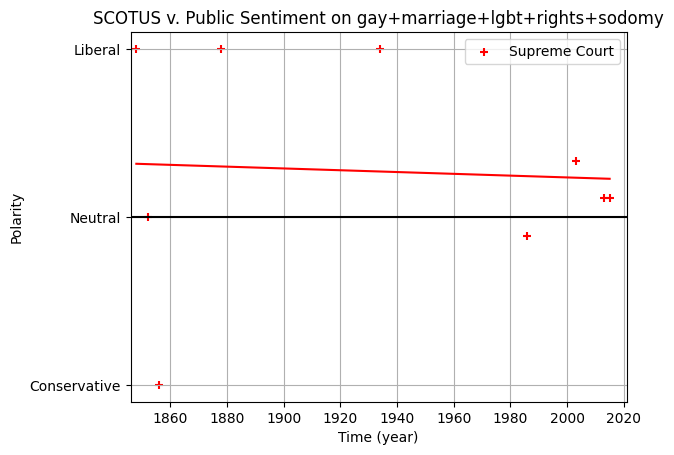
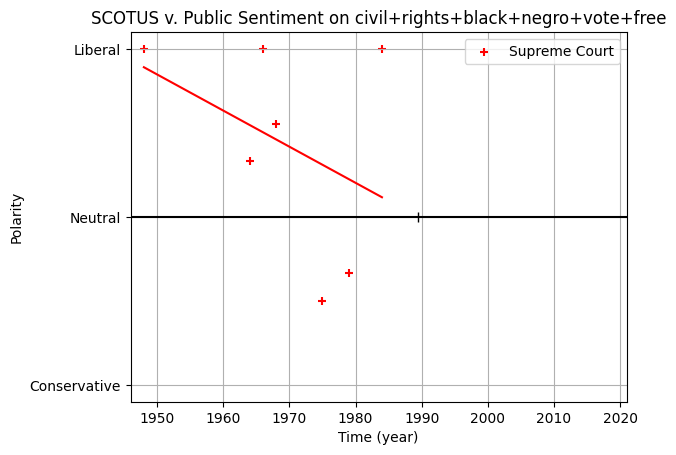
generating plots based on different keywords
generating plots

diff --git a/plot.py b/plot.py
@@ -95,7 +95,7 @@ def plot(sc_polarity,title="ISSUE"):
     plt.gcf().clear()
 
 if __name__ == "__main__":
-    keywords=["gay","marriage","lgbt","rights","sodomy"]
+    keywords=["civil","rights","black","negro","vote","free"]
     rel_cases=relevant_cases_scdb_df(keywords)
     sc_polarity=sc_polarity(rel_cases)
     plot(sc_polarity,title="+".join(keywords))
